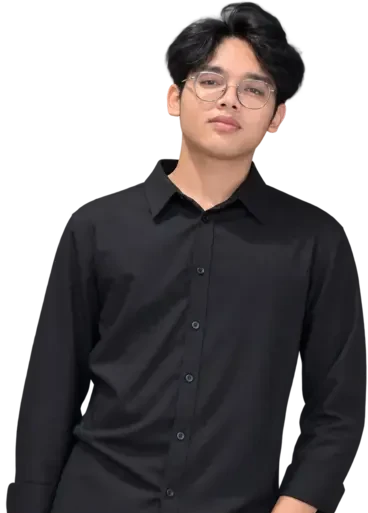
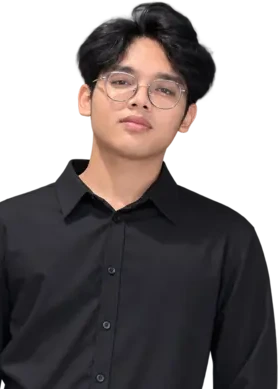
fix: crop the portrait tighter so the subject reads larger
The card is untouched at 320x446. Only the asset changed.

The card renders the image at its own width, so the one lever that
enlarges the person is showing less of them. Cropping to the card's
aspect at full width gave head-to-hips and the figure still read small;
this crops narrower than the subject, cutting into the arms and
everything below the chest, which is the trade the owner accepted.

Measured how far that goes, by scanning the alpha channel for the head's
extent and scaling it to how it renders. The head is 56px wide inside
the card as originally converted, 123px once the padding and the source
photo's own transparent margins were removed, and 162px now — near
three times where this started.

The crop is centred on the head rather than on the frame. Centring on
the frame put the face visibly off to one side: the subject's arms are
not symmetrical, so the bounding box's centre and the head's centre are
50px apart in the source. That was only visible by looking at the
output, which is the part of this that no measurement would have caught.

Declared width and height follow the file to 279x389, verified in a
browser against the image's natural size — they are what the browser
reserves a box from before the image arrives.

331 tests pass, lint and tsc clean, no overflow at 1280 or 375.

diff --git a/src/sections/Hero.tsx b/src/sections/Hero.tsx
@@ -103,15 +103,22 @@ export default function Hero() {
               //
               // Trimmed to the subject it is 368x744, an aspect of 0.495
               // against the card's 0.718 — filling the width at that shape puts
-              // the head above the top edge, and the card clips it. So it is
-              // cropped to the card's own aspect instead, head to hips, which
-              // is the framing that lets the subject reach both edges.
+              // the head above the top edge, where the card clips it.
+              //
+              // Cropping to the card's aspect at full width gave head-to-hips,
+              // and the figure still read small: the card renders the image at
+              // its own width, so the only way to enlarge the person is to show
+              // less of them. This crops narrower than the subject, cutting
+              // into the arms and everything below the chest, and is centred on
+              // the head rather than on the frame — centring on the frame put
+              // the face noticeably off to one side, because the arms are not
+              // symmetrical in the source.
               //
               // These numbers must match the file: the browser reserves a box
               // from them before the image arrives, and a wrong one stretches
               // the portrait into it.
-              width={368}
-              height={513}
+              width={279}
+              height={389}
               className="w-full max-w-xs"
             />
           </div>
